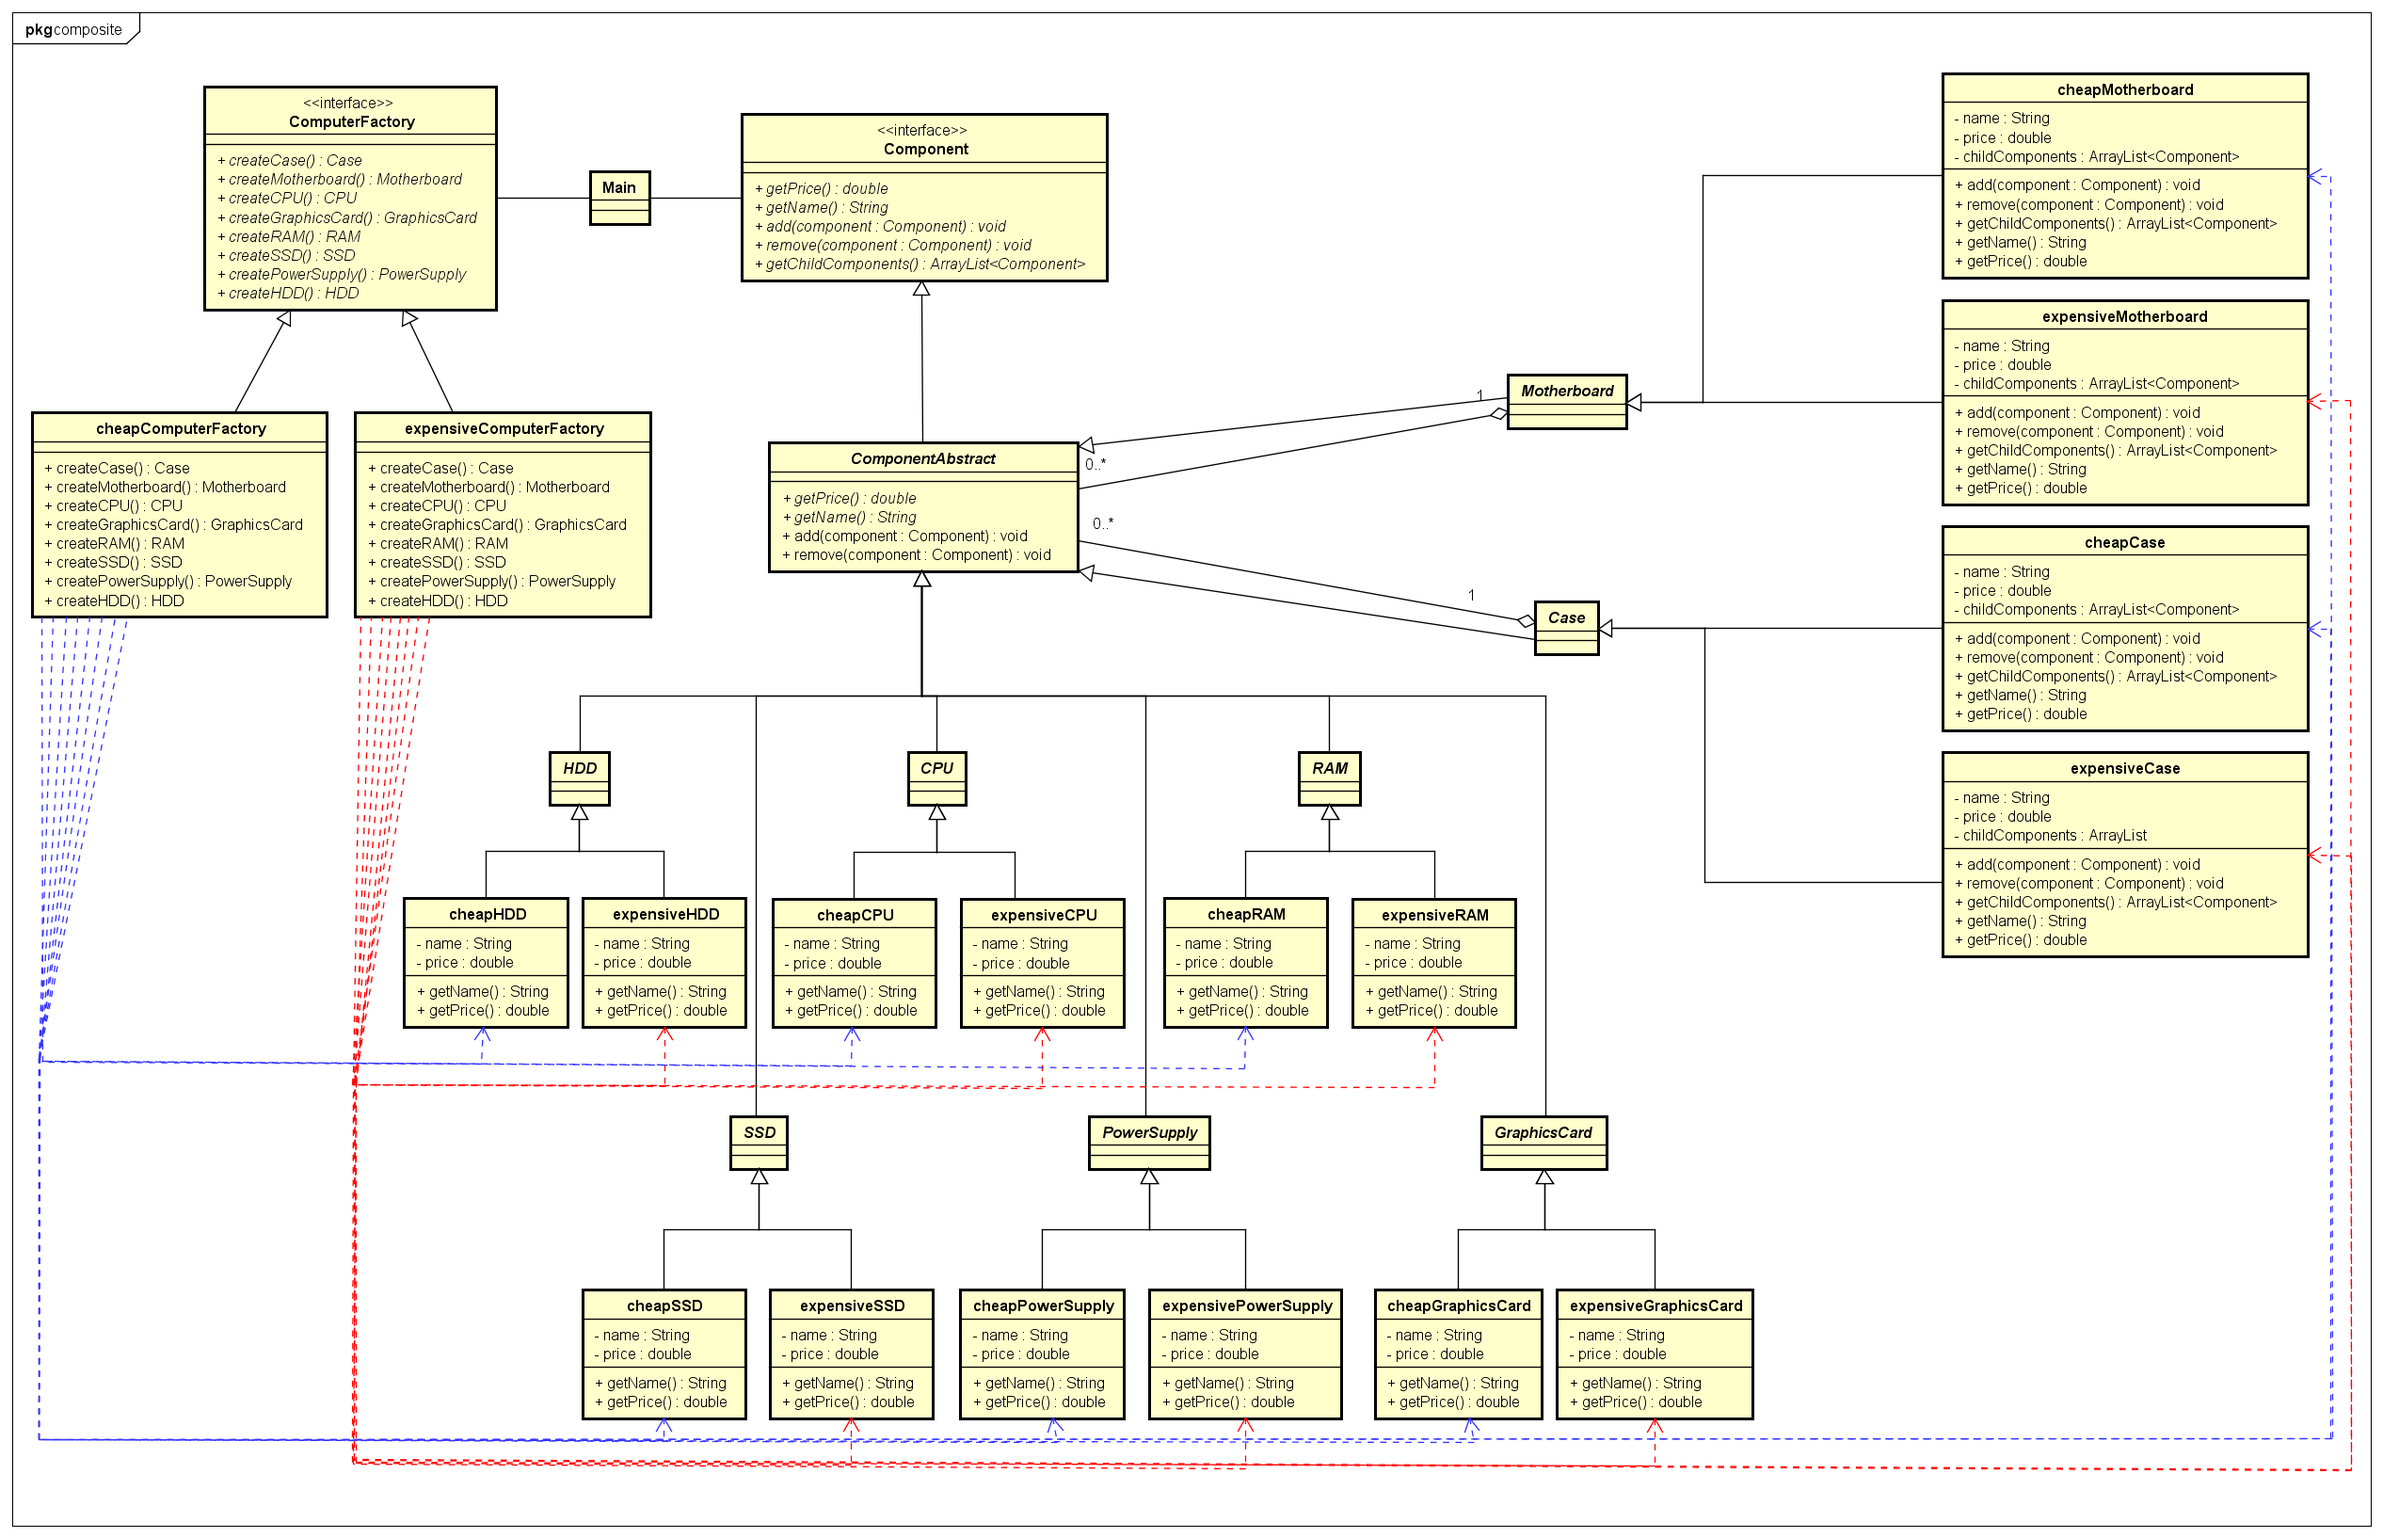
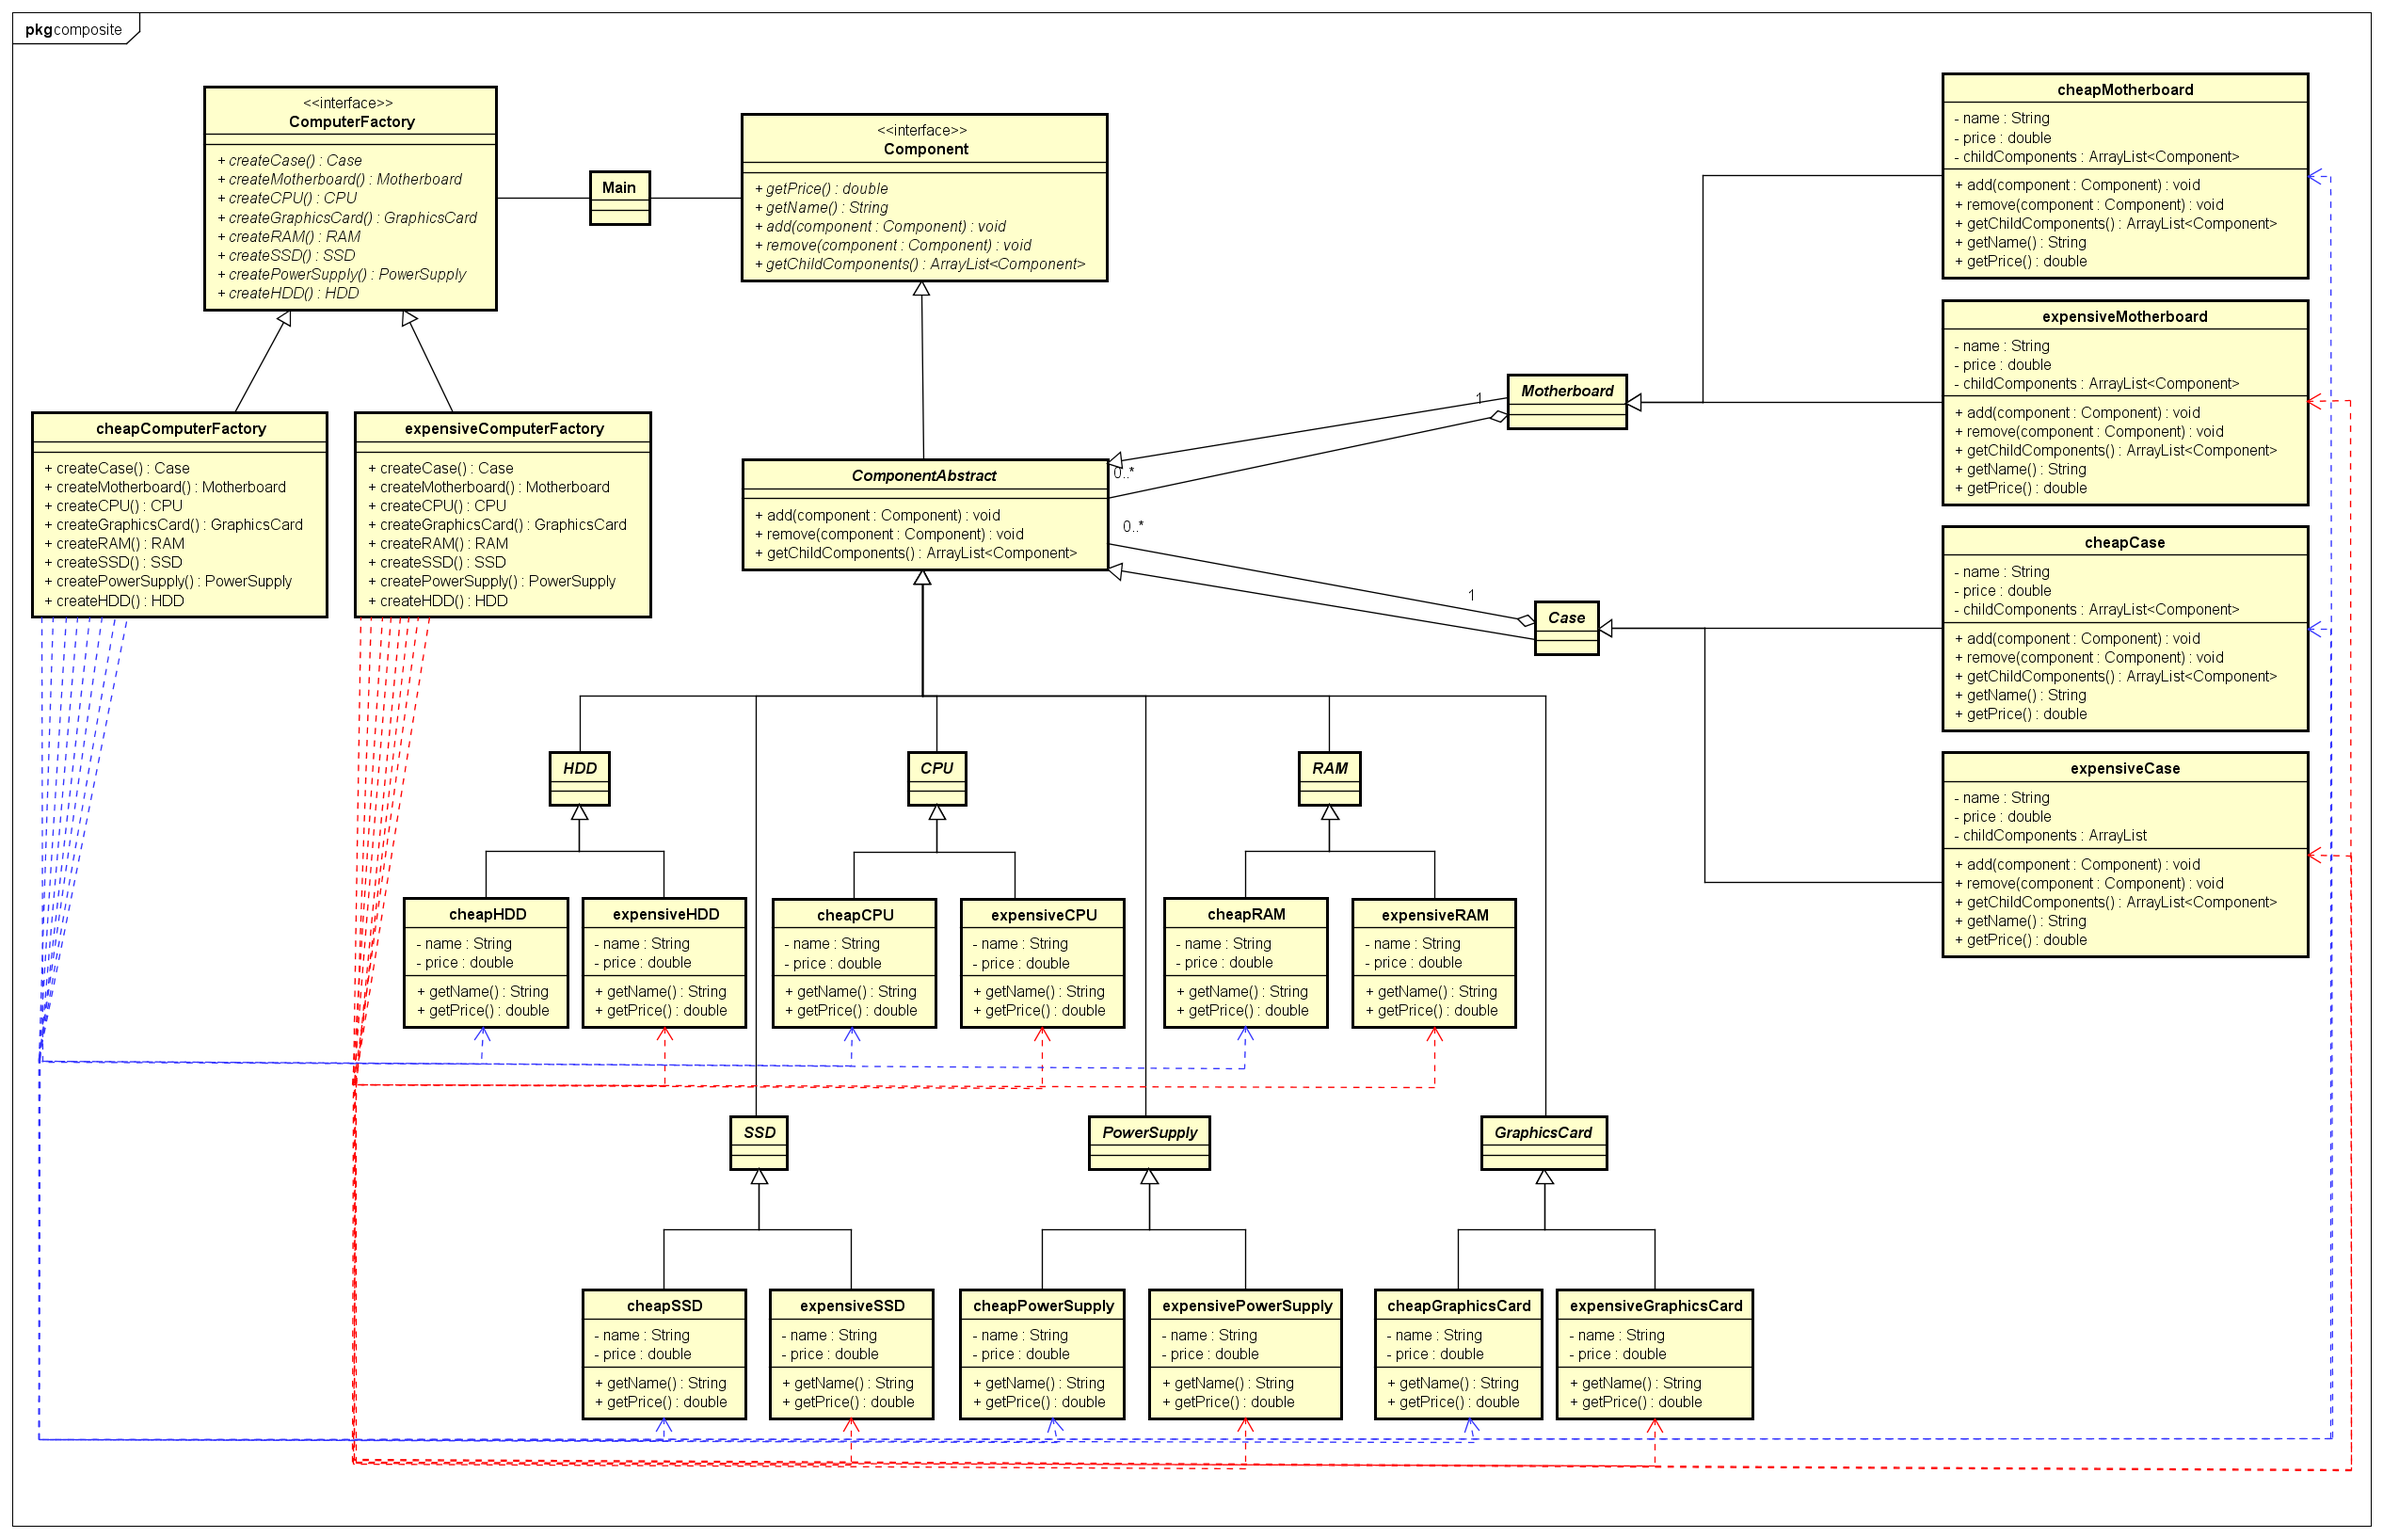
Updated DP03b
Removed getPrice() and getName() methods from ComponentAbstract.java and from UML. The methods are implemented
in subclasses in every case.

Changed region(s): [[0.312, 0.2809, 0.5616, 0.3745], [0.5304, 0.3745, 0.5928, 0.4058], [0.5928, 0.2497, 0.624, 0.2809]]

diff --git a/DP03b_composite_and_abstractfactory/src/composite/ComponentAbstract.java b/DP03b_composite_and_abstractfactory/src/composite/ComponentAbstract.java
@@ -13,16 +13,6 @@ public abstract class ComponentAbstract implements Component {
     private double price;
 
     @Override
-    public double getPrice() {
-        return this.price;
-    }
-
-    @Override
-    public String getName() {
-        return this.name;
-    }
-
-    @Override
     public ArrayList<Component> getChildComponents() {
         return null;
     }
